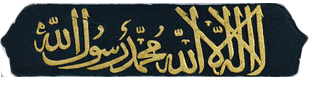
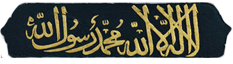
Complete Template

diff --git a/index.html b/index.html
@@ -4,6 +4,8 @@
         <meta charset="UTF-8">
         <title>Islam</title>
         <link href="./style.css" rel="stylesheet" type="text/css" />
+        <link href="./tablet-style.css" rel="stylesheet" type="text/css" media="screen and (max-width: 1024px)"/>
+        <link href="./mobile-style.css" rel="stylesheet" type="text/css" media="screen and (max-width: 480px)"/>
         <link rel="icon" type="image/png"  href="./images/titleLogo2.png" />
     </head>
 
@@ -39,7 +41,7 @@
                 <article>
                     <h1>New Videos This Week</h1>
                     <div>
-                        <img src="./images/hazrat.jpg" width="200px" alt=""/>
+                        <img src="./images/hazrat.jpg" alt=""/>
                     <a href="#">The Life and Times of Ahmed Deedat</a>
                     <time datetime="2016-07-04"><span class="readMore">(Published on 04 Jul 2016)</span></time>
                     <p>
@@ -47,7 +49,7 @@
                     </p>
                     </div>
                     <div>
-                        <img src="./images/hazrat2.jpg" width="200px" alt=""/>
+                        <img src="./images/hazrat2.jpg" alt=""/>
                     <a href="#">The Life and Legacy of Malcom X </a>
                     <time datetime="2016-07-04"><span class="readMore">(Published on 04 Jul 2016)</span></time>
                     <p>
@@ -84,7 +86,69 @@
                 </footer>
             </div>
 
+        <!-- Main Content Aside Html -->
+
             <div id="mainContent_aside">
+                <div>
+                    <ul>
+                        <li class="logoLink"><img src="./images/home.png" alt=""/><a href="#">Home Page</a></li>
+                        <li class="logoLink"><img src="./images/msg.png" alt=""/><a href="#">Contact Us</a></li>
+                        <li><a href="#">English</a></li>
+                        <li><a href="#" title="Spanish">Espa&ntilde;ol</a></li>
+                        <li><a href="#" title="French">Fran&ccedil;ais</a></li>
+                        <li><a href="#" title="German">Deutsch</a></li>
+                        <li><a href="#" title="Russian">&#1056;&#1091;&#1089;&#1089;&#1082;&#1080;&#1081;</a></li>
+                        <li><a href="#" title="Portoguese">Portugu&ecirc;s</a></li>
+                        <li><a href="#" title="Chinese">&#20013;&#25991;</a></li>
+                        <li><a href="#" title="Japanese">&#26085;&#26412;&#35486;</a></li>
+                        <li><a href="#" title="Italian">Italian</a></li>
+                        <li><a href="#" title="Tagalog">Tagalog</a></li>
+                        <li><a href="#" title="Korean">&#54620;&#44397;&#50612;</a></li>
+                        <li><a href="#" title="Hebrew">&#1506;&#1460;&#1489;&#1512;&#1460;&#1497;&#1514;</a></li>
+                        
+                    </ul>
+                </div>
+                <div>
+                    <h2>Live Help by Chat</h2>
+                    <div><p><span>Live Help (Online)</span> Have a question about Islam or converting to it?<br /><br /><b>Click <a href="#">here</a> to chat now!</b></p></div>
+                    <p>Online daily:<br />From 10:00 PM to 1:00 AM (according to your computer time)</p>
+                </div>
+                <div>
+                    <h2>About This Site</h2>
+                    <p>This web site is for people of various faiths who seek to understand Islam and Muslims.
+                        It contains a lot of brief. yet informative articles about different aspects of Islam.
+                        New articles are added every week.
+                        Also, it features Live Help through chat.
+                    </p>
+                </div>
+                <div>
+                    <h2>Login</h2>
+                    <label for="user">Username<input type="text" id="user" /></label><br /><br />
+                    <label for="password">Password<input type="password" id="password" /></label><br /><br />
+                    <label for="check"><input type="checkbox" name="remember" />Remember</label><br /><br />
+                    <button type="submit" value="Login">Login</button><br /><br />
+
+                    <a href="#" title="If you Forgot you Password click here">Forgot your Password?</a>
+                    No account? <a href="#" title="Register new account">Register &amp; Why?</a>
+                    
+
+                </div>
+                <!--<div>
+                    <h2>Most Popular</h2>
+                    <a href="#">Most viewed (daily average)</a><br />
+                    <a href="#">Most viewed (total)</a><br />
+                    <a href="#">Highest rated</a><br />
+                    <a href="#">Most emailed</a><br />
+                    <a href="#">Most printed</a><br />
+                    <a href="#">Most commented on</a><br />
+                </div>
+                <div>
+                    <h2>List Articles</h2>
+                    <a href="#">Editor's Pick</a><br />
+                    <a href="#">Since your last visit</a><br />
+                    <a href="#">All by date</a><br />
+                    <a href="#">All by category</a><br />
+                </div>-->
             </div>
             
         </section>

diff --git a/style.css b/style.css
@@ -11,7 +11,7 @@ body{
 header{
     height: 255px;
 }
-header img{
+/*header img{
     height: 15em; 
 }
 header img#verse {
@@ -20,7 +20,7 @@ header img#verse {
 header div#absolutePara img{
     height: 13em;
    
-}
+}*/
 header img:first-child{
     float: left;   
 }
@@ -41,12 +41,12 @@ header div#absolutePara{
 /*************************** Aside Content **********************************/
 section#asideContent{
     position: absolute;
-    top: 260px;
+    top: 255px;
    
     width: 19%;
  
      font-size: small;
-    z-index: 99;
+    
 }
 ul{
     list-style-type: none;
@@ -202,6 +202,7 @@ section#Content div#mainContent{
 }
 section#Content div#mainContent article{
     clear: both;
+    /*padding-bottom:5px; */
 }
 section#Content div#mainContent article div{
     padding: 10px;
@@ -219,6 +220,7 @@ section#Content div#mainContent article h1{
 }
 section#Content div#mainContent article img{
     float: right;
+    margin-left: 1%;
 }
 section#Content div#mainContent article a{
     color: darkgoldenrod;
@@ -238,9 +240,72 @@ section#Content div#mainContent article:first-child h1:first-child{
 section#Content div#mainContent_aside{
     position: absolute;
     width: 25%;
-    top: 0px;
+    top: 8px;
     right: 0px;
-    background-color: rgb(45,66,88);
+    font-size: .9em;
+    background-color: rgba(140,114,123,.2);
+  
 
-    height: 100px;
+    /*background-color:  #22414f;
+    opacity: 0.7;*/
+    
+
 }
+section#Content div#mainContent_aside div{
+    margin-bottom: 5px;
+    padding-bottom: 5px;
+}
+section#Content div#mainContent_aside div span{
+    color:  cornflowerblue;
+    font-weight: bold;
+    
+}
+section#Content div#mainContent_aside li{
+    display: inline-block;
+    padding: 5px;
+    width: 40%;
+    background-color: rgba(140,114,123,.4);
+    margin: 5px;
+    
+}
+section#Content div#mainContent_aside li.logoLink{
+     background-color: rgba(140,114,123,0);
+
+}
+section#Content div#mainContent_aside a{
+    color: #dddcdc;
+    display: inline-block;
+    
+}
+section#Content div#mainContent_aside a:hover{
+    color: #fff;
+}
+section#Content div#mainContent_aside div:first-child{
+    background-color: rgba(240,14,123,0);
+    width: initial;
+    border-top-left-radius: 0px;
+    border-top-right-radius: 0px;
+    border: none;
+}
+section#Content div#mainContent_aside > div{
+   width: 95%;
+   margin: auto;
+   border:1px solid rgba(220,14,123,.4);
+   border-top-left-radius: 20px;
+   border-top-right-radius: 20px;
+  
+}
+section#Content div#mainContent_aside div{
+    margin-bottom: 5px;
+}
+section#Content div#mainContent_aside>div>h2{
+    background-color:rgba(220,14,123,.4);
+    border-top-left-radius: 20px;
+   border-top-right-radius: 20px;
+   margin: 0px 0px 5px 0px; 
+   font-size: 1.3em; 
+   padding: 10px 0px;
+   
+}
+
+

diff --git a/mobile-style.css b/mobile-style.css
@@ -1,0 +1,4 @@
+body{
+    background-image: none;
+    background-color: lawngreen;
+}

diff --git a/tablet-style.css b/tablet-style.css
@@ -1,0 +1,4 @@
+body{
+    background-image: none;
+    background-color: red;
+}
